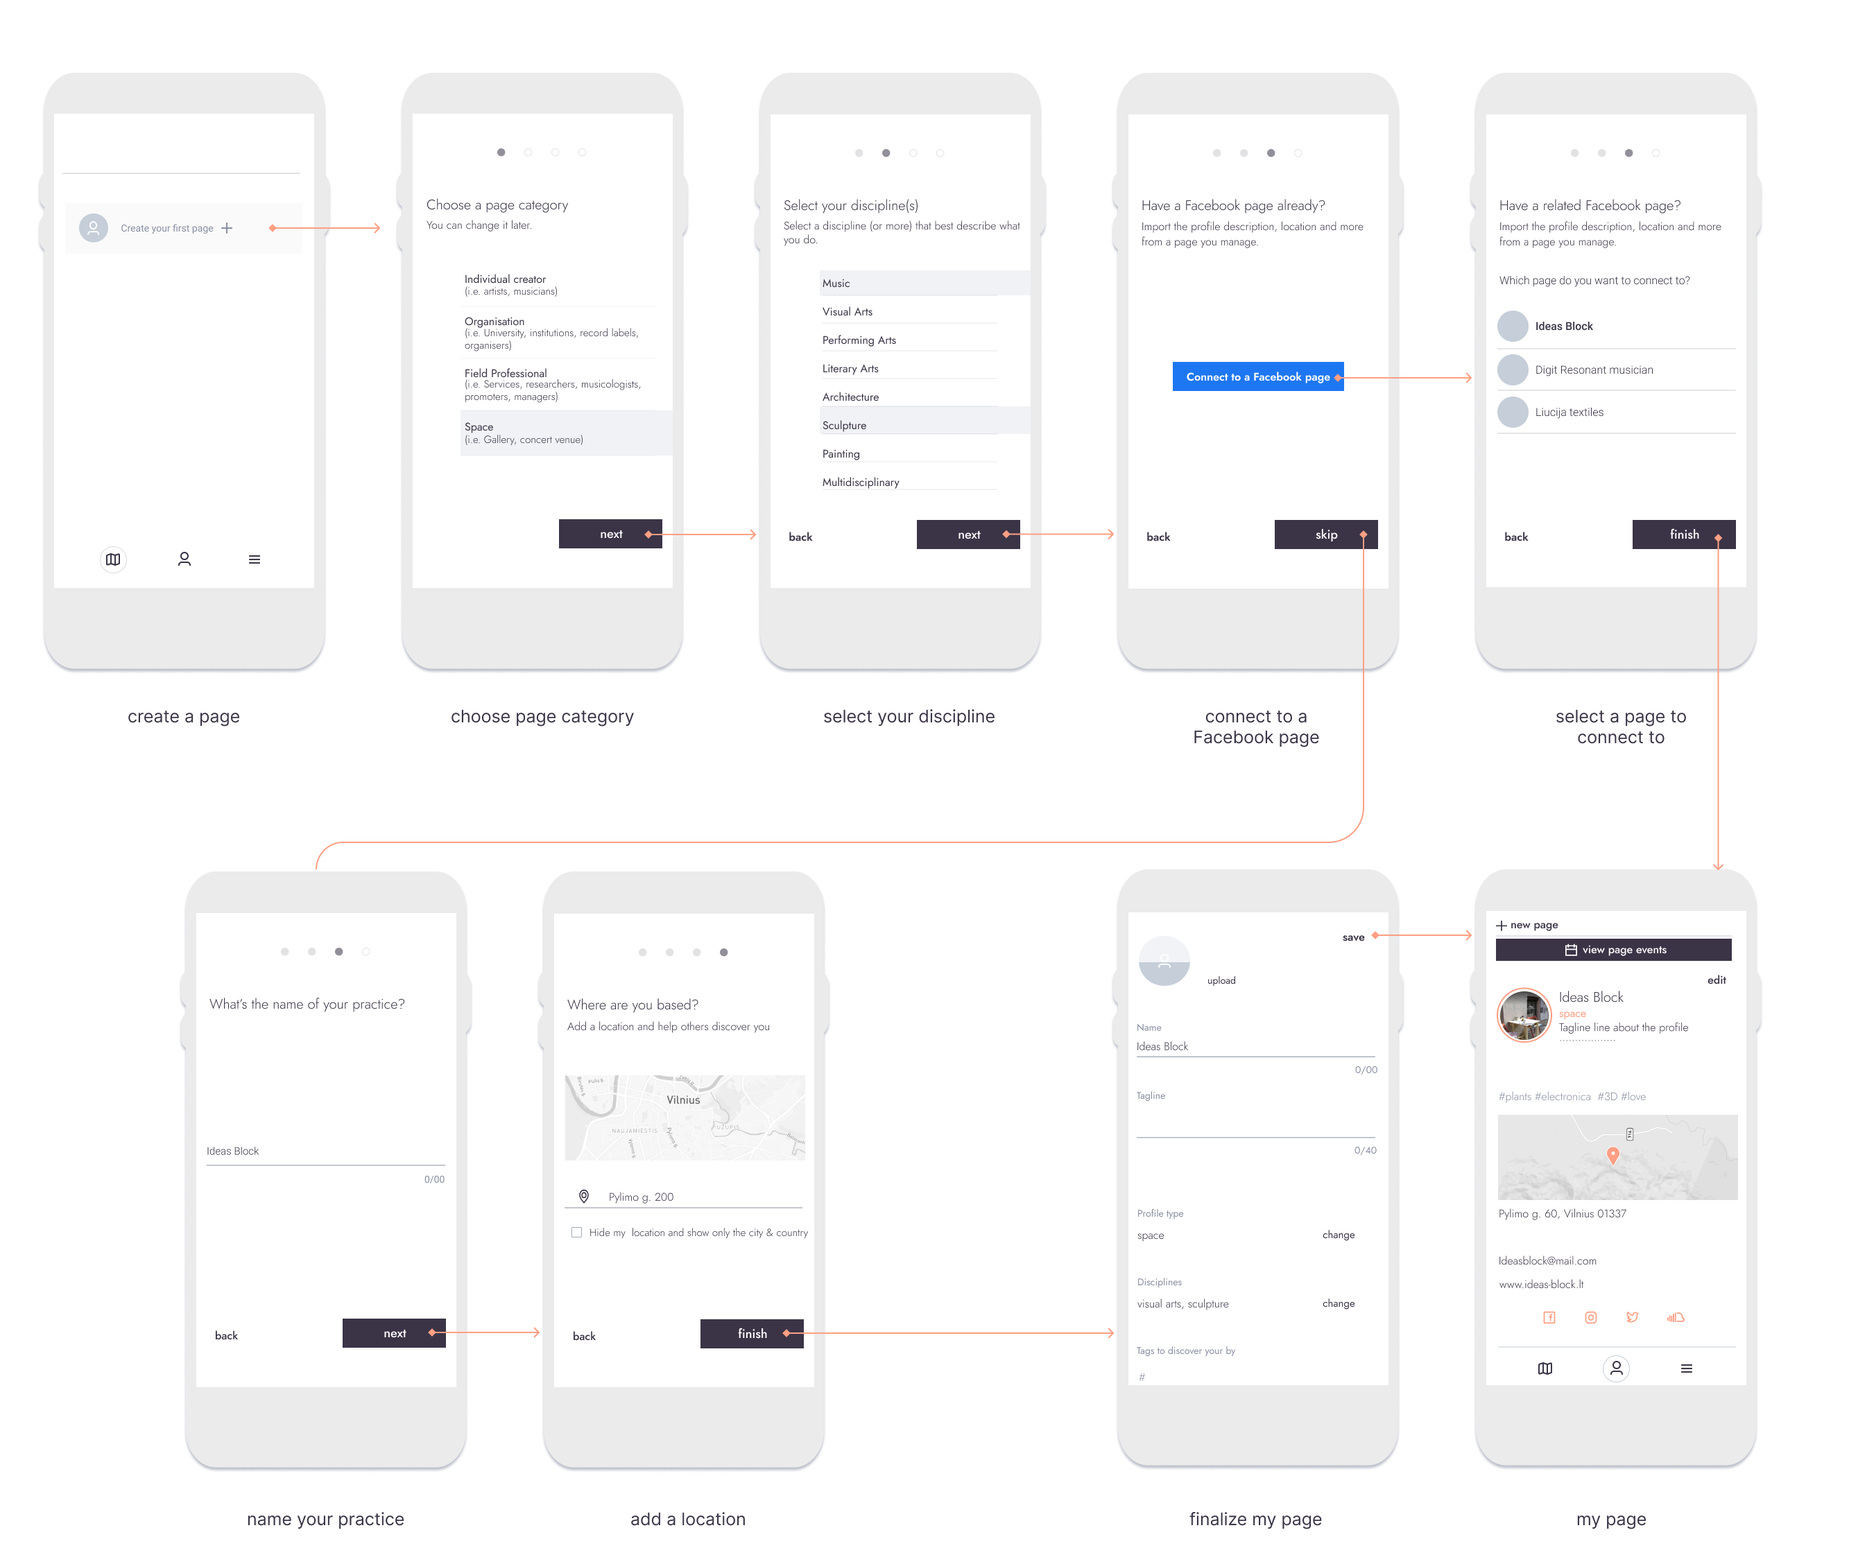
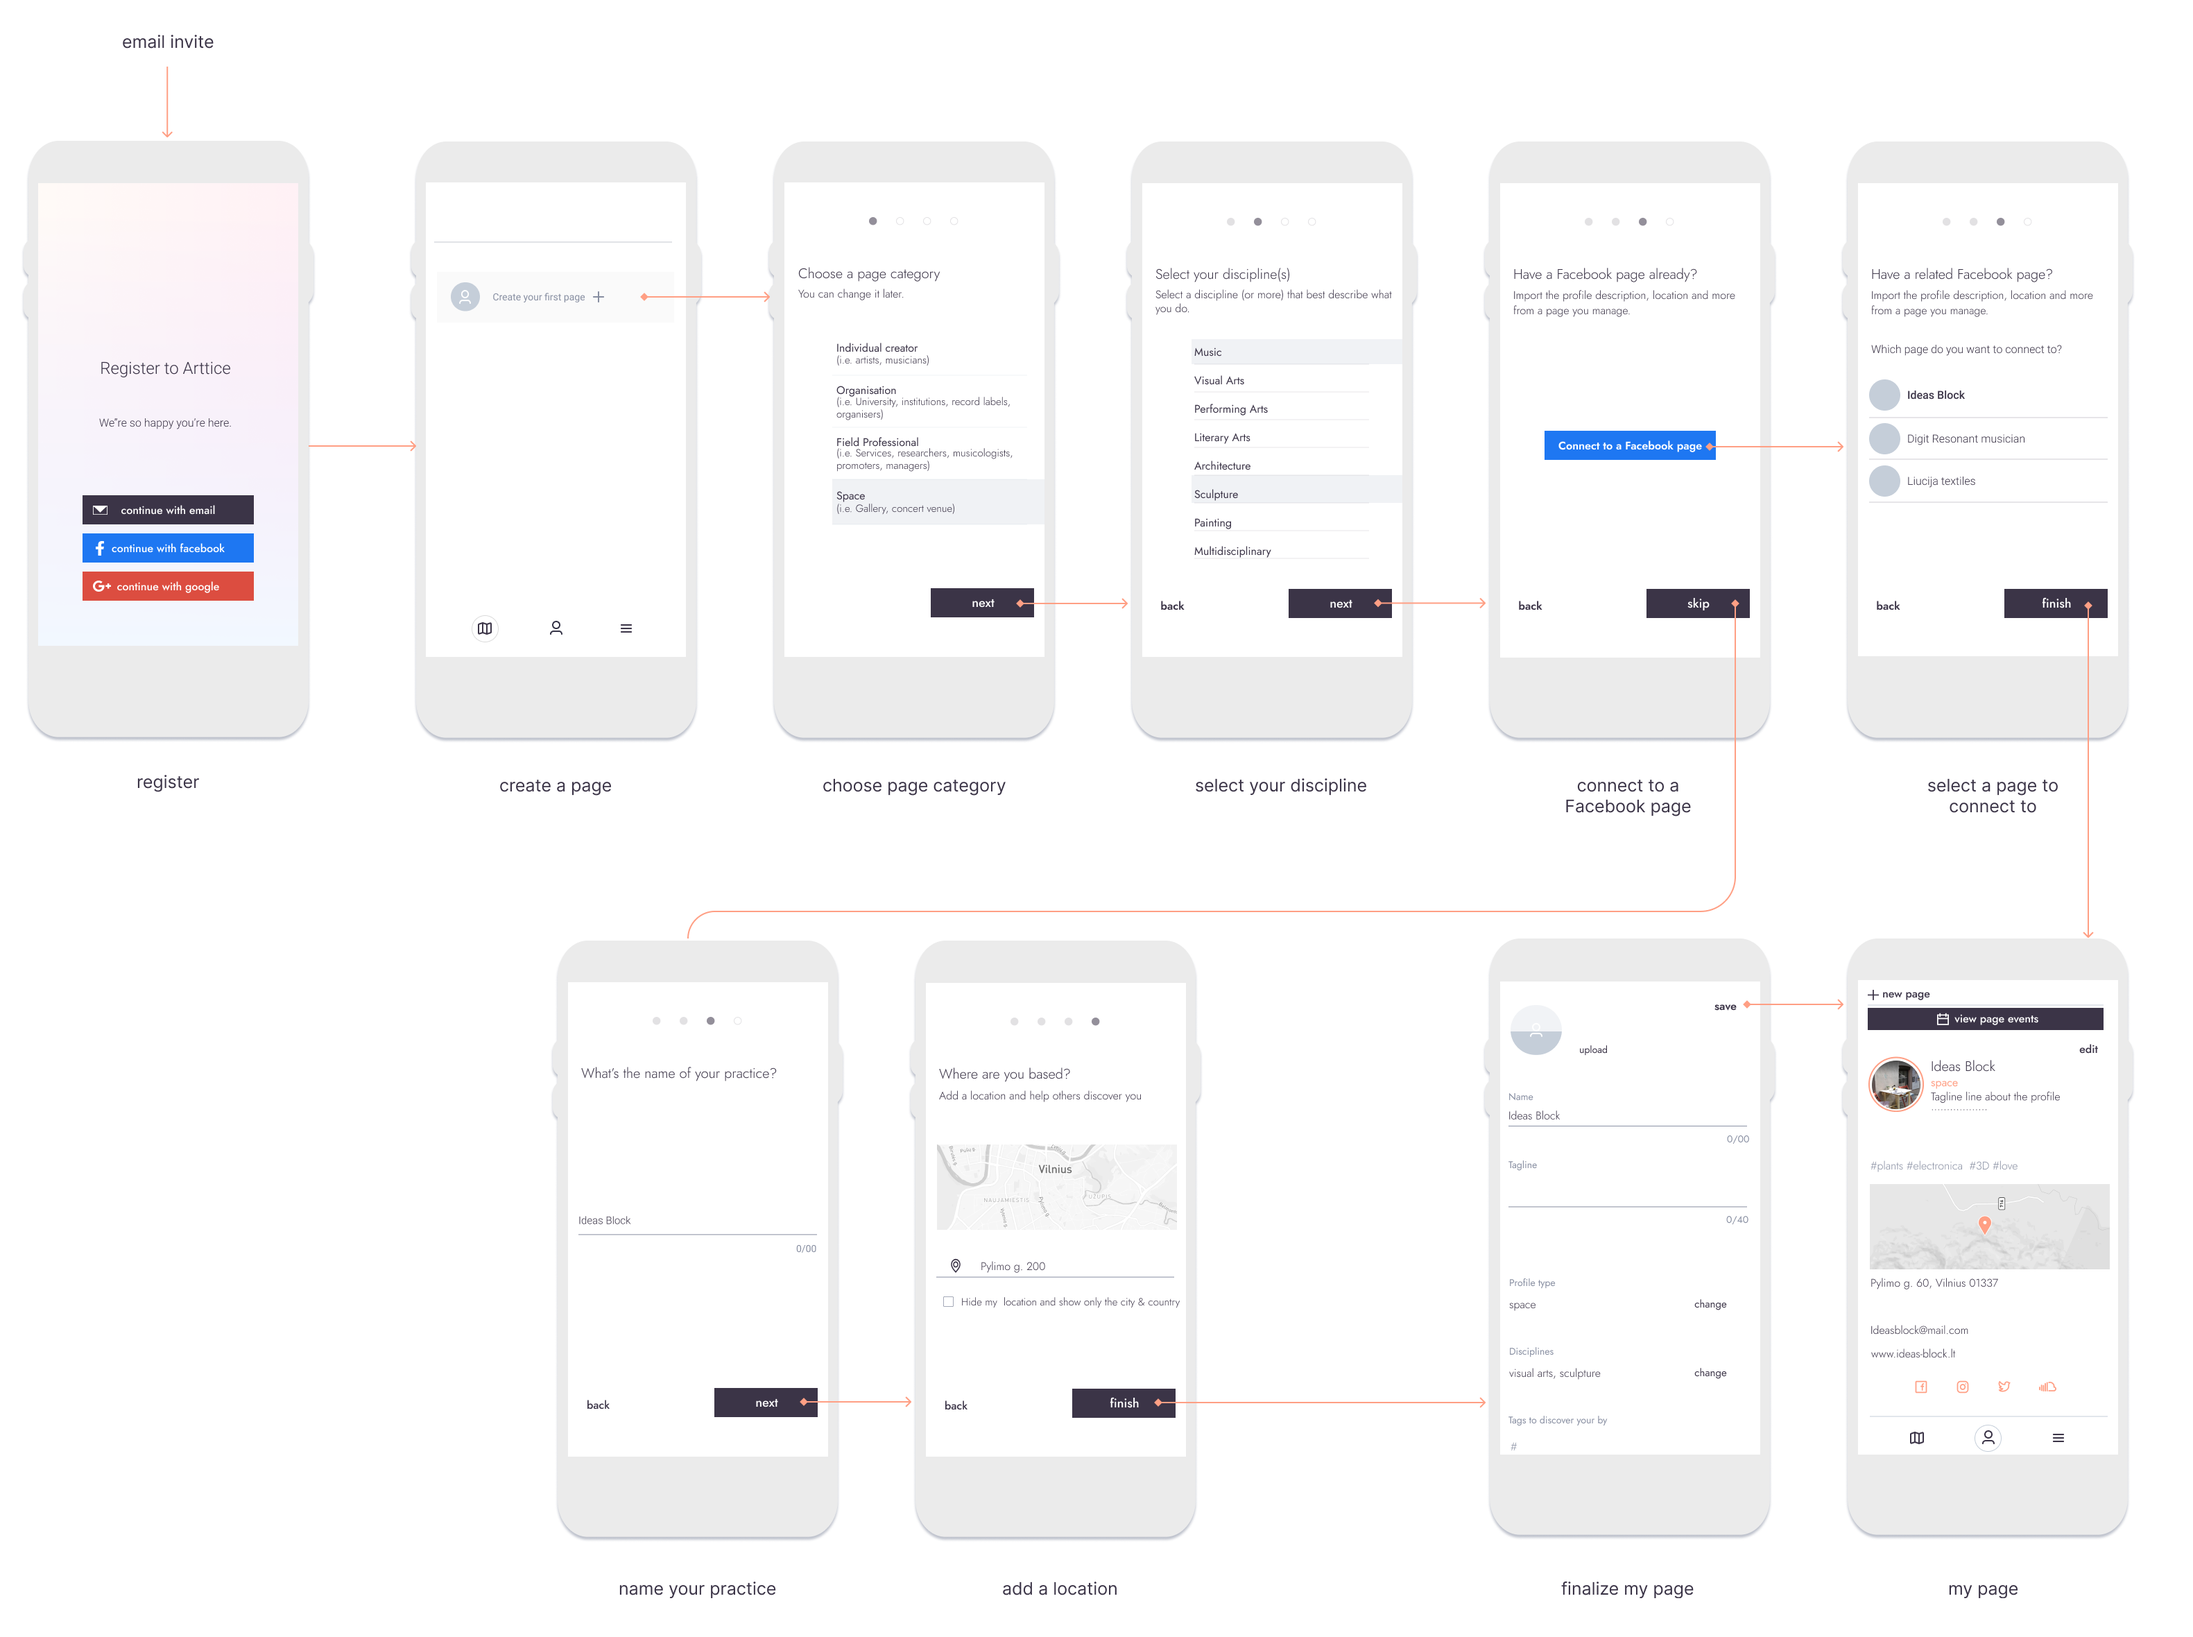
update

diff --git a/arttice.html b/arttice.html
@@ -298,14 +298,17 @@ To enable a seemless transition from platforms such as Facebook, Arttice is buil
 
   
 
-                      <r-cell span=8 span-s=row > 
+                      <r-cell span=1-4 span-s=row > 
                      
                         </br> </br> 
                         
-                     </r-cell>
+               
 
-                     
-                 
+                     <h3> <br>
+                    My page UI
+                    <br><br></h3>
+                        </r-cell>
+
                          <r-cell span=1-8 span-s=row 
                          data-aos="fade-zoom-in"
                              data-aos-easing="ease-in-back"
@@ -325,20 +328,7 @@ To enable a seemless transition from platforms such as Facebook, Arttice is buil
        A map-centered search interface
           <br></h2></r-cell>
 
-
-
-        <r-cell span=1-6 span-s=row 
-        data-aos="fade-zoom-in"
-            data-aos-easing="ease-in-back"
-            data-aos-delay="100"
-            data-aos-offset="0">
-            <img src="img/arttice/filter.png">
-      </br></br></br>
-
-          </r-cell>
-
-        
-          <r-cell span=7-8 span-s=row
+          <r-cell span=1-3 span-s=row
           data-aos="fade-zoom-in"
               data-aos-easing="ease-in-back"
               data-aos-delay="500"
@@ -349,6 +339,20 @@ To enable a seemless transition from platforms such as Facebook, Arttice is buil
           <br> <br></h4>
         </r-cell>
 
+
+        <r-cell span=1-9 span-s=row 
+        data-aos="fade-zoom-in"
+            data-aos-easing="ease-in-back"
+            data-aos-delay="100"
+            data-aos-offset="0">
+            <img src="img/arttice/filter.png">
+      </br></br></br>
+
+          </r-cell>
+
+        
+    
+
     
           <r-cell span=1-2 span-s=row
           data-aos="fade-zoom-in"
@@ -358,17 +362,19 @@ To enable a seemless transition from platforms such as Facebook, Arttice is buil
               <h2 
             >
             Create a page
-                <br></h2>
+        </br></h2>
           
                 <h4 style="font-weight: 400; line-height: 1.3;">
-                  Once you register, you are encouraged to create a page from your profile
+                 Registration is invite-only. Both moderators and existing users can generate invites.
+                </br></br>
+                 Once a person registers, they are encouraged to create a page from their profile
 
                  
               </h4>
               </r-cell>
 
     
-          <r-cell span=3-8 span-s=row 
+          <r-cell span=1-8 span-s=row 
           data-aos="fade-zoom-in"
               data-aos-easing="ease-in-back"
               data-aos-delay="100"
@@ -379,6 +385,18 @@ To enable a seemless transition from platforms such as Facebook, Arttice is buil
             </r-cell>
       
 
+            <r-cell span=1-8 span-s=row 
+            data-aos="fade-zoom-in"
+                data-aos-easing="ease-in-back"
+                data-aos-delay="100"
+                data-aos-offset="0">
+                <h3 >Desktop version
+                </br></br>
+                </h3>
+                <img src="img/arttice/create-a-page-desktop.png">
+              </br></br></br>
+  
+              </r-cell>
 
    
 

diff --git a/library-rituals.html b/library-rituals.html
@@ -713,7 +713,7 @@ ing for books, actively making time for this activity of browsing.
         data-aos-delay="500"
         data-aos-offset="0">
         <h1 >
-                 Filtering books by physical properties
+                 Filtering books by physical properties and mood
                   <br></h1>
             
                 <h3 style="font-weight: 400; line-height: 1.3;">
